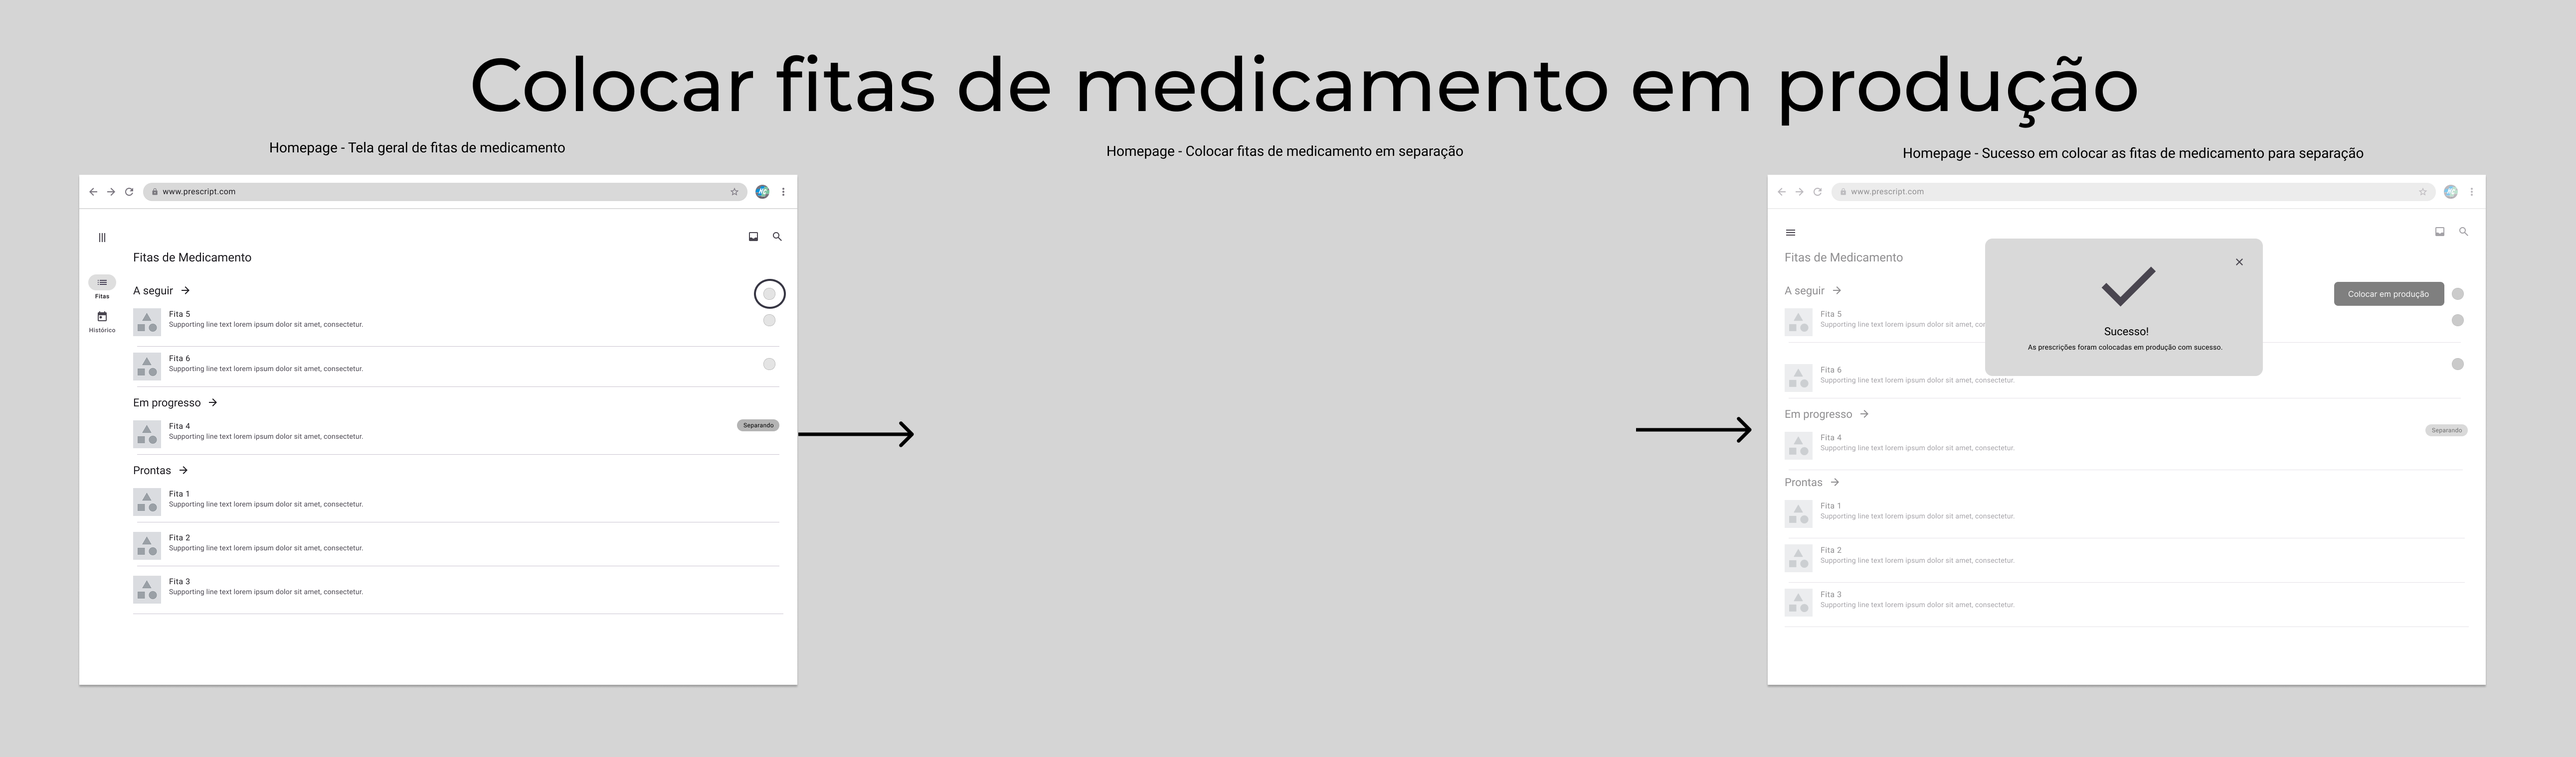
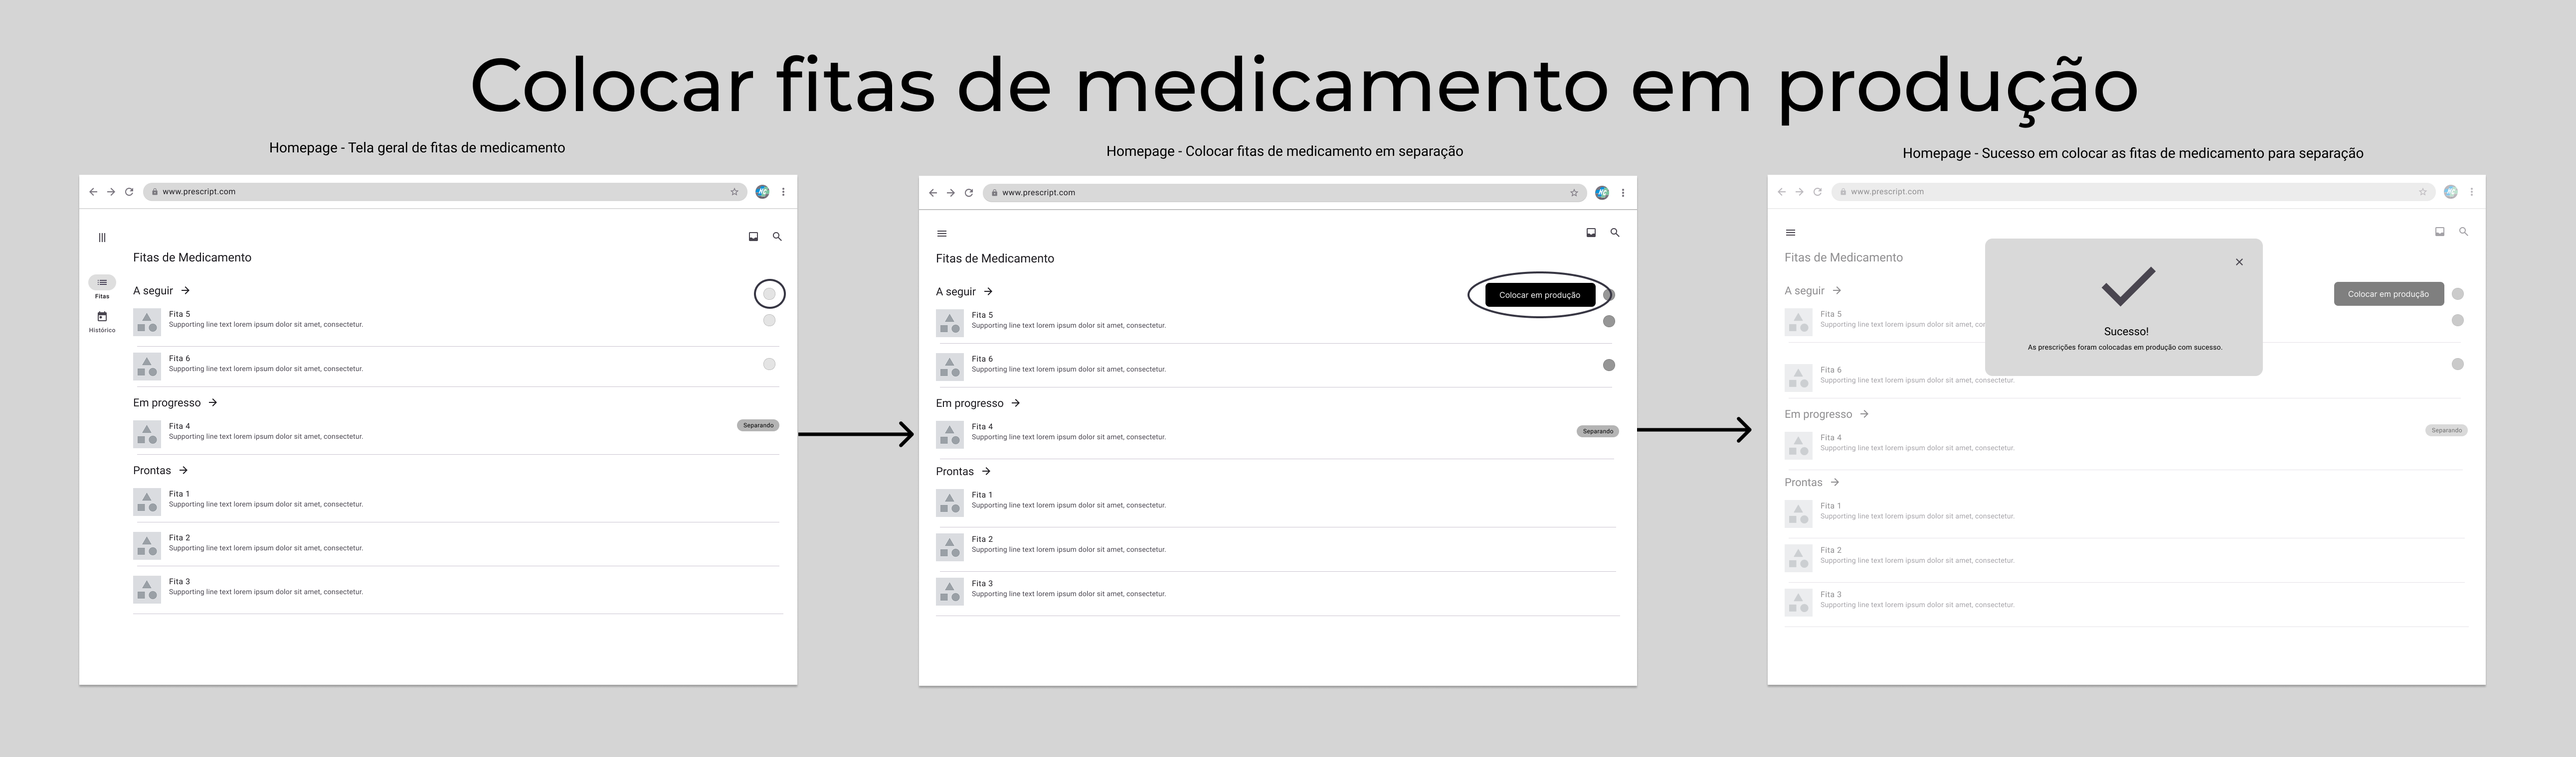
docs: ajusta wireflow de colocar uma fita em progresso

Changed region(s): [[0.3428, 0.2164, 0.6545, 0.9276]]

diff --git a/docs/docs/wireflow.md b/docs/docs/wireflow.md
@@ -167,7 +167,7 @@ Para visualizar **todas as telas da aplicação** e os **fluxos mapeados em deta
 <sub>Figura 7 - Fluxo de Colocar uma Fita em Progresso</sub>
 </div>
 
-<img src="/img/historico_wireflow.png"/>
+<img src="/img/separacao_wireflow.png"/>
 
 <div align ='center'>
 <sup>Fonte: Material produzido pelos autores (2025)</sup>
